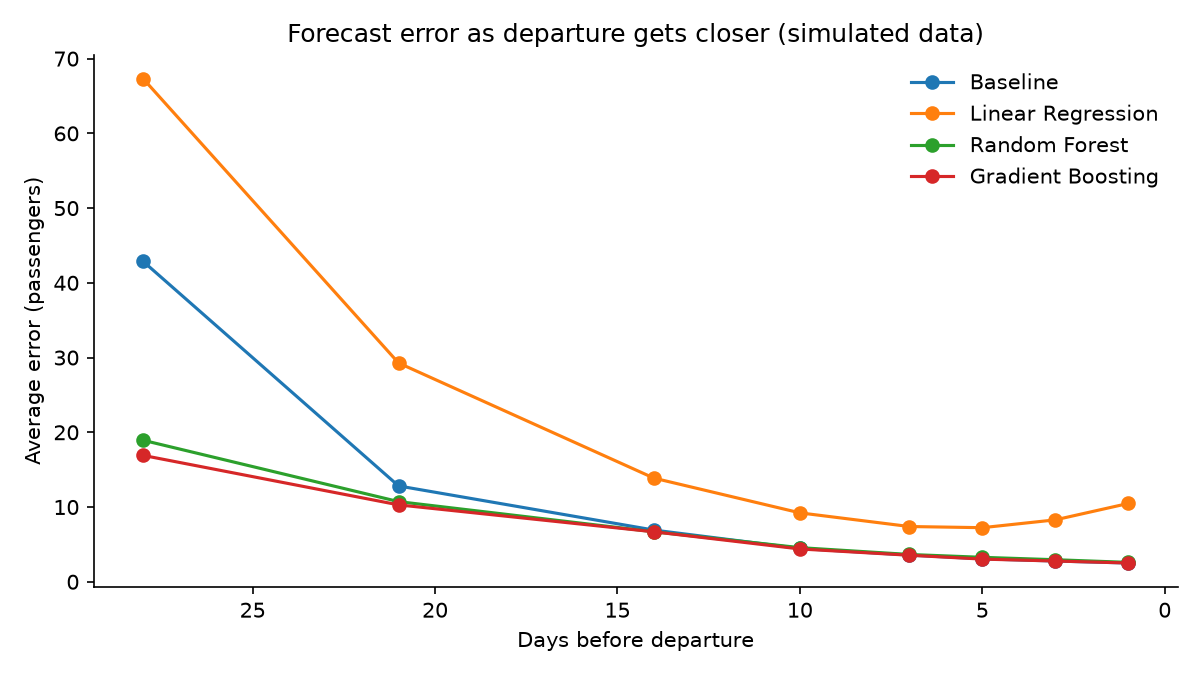
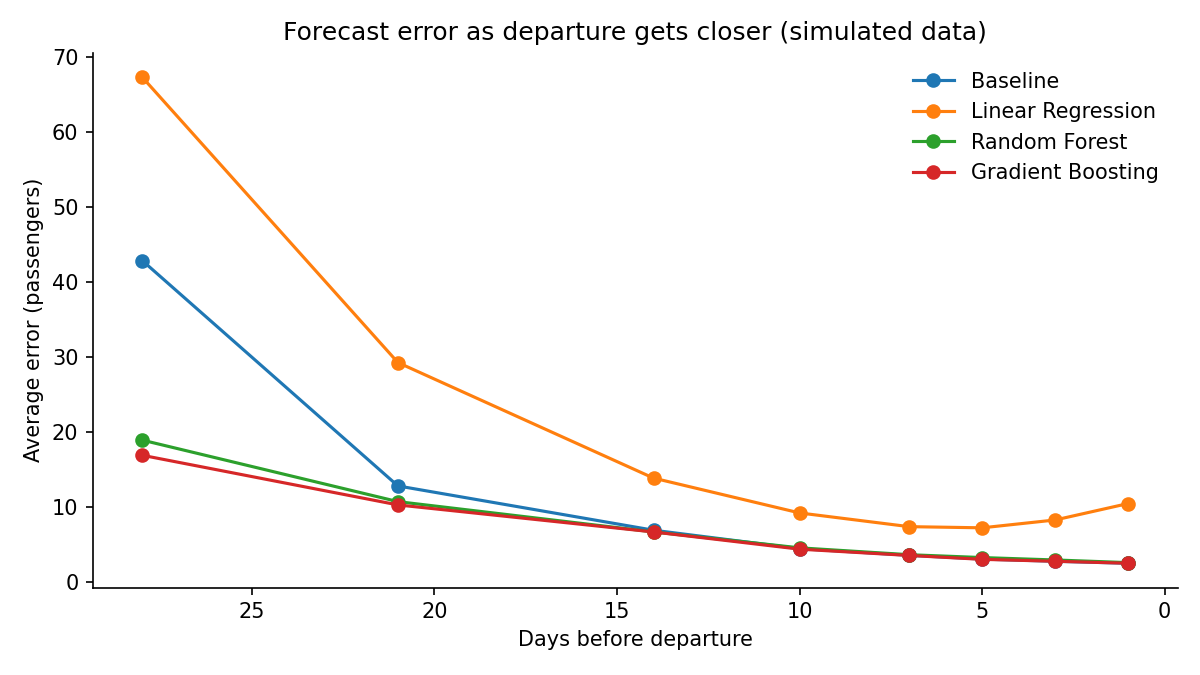
route overview

diff --git a/web/js/app.js b/web/js/app.js
@@ -70,6 +70,7 @@ function showPage(page) {
   $("page-title").textContent = PAGES[page][0];
   $("page-sub").textContent = PAGES[page][1];
   if (page === "carpool") renderCarpool();
+  if (page === "overview") renderRouteMap();
   if (view === "student") renderStudent(page);
   window.scrollTo({ top: 0 });
 
@@ -201,6 +202,103 @@ function renderOverview() {
   renderTrip(trips.find((t) => t.id === ov.tripId));
   renderCurve(ev, trips, predTotal, actualTotal);
   renderPlan(trips);
+  renderRoutes(ev);
+}
+
+// ---------- routes card ----------
+
+const ROUTE_COLORS = { A: COLORS.accent, B: COLORS.green, C: COLORS.amber };
+let routeMap;
+let routeLayer;
+
+function setRoute(code) {
+  ov.route = code;
+  ov.tripId = null;
+  $("f-route").value = code;
+  renderOverview();
+}
+
+function routePoints(code) {
+  return [data.config.UTP, ...Object.values(data.config.ROUTES[code].stops)];
+}
+
+function renderRoutes(ev) {
+  // forecast passengers per route for the chosen break, run and snapshot
+  const perRoute = {};
+  for (const t of ev.trips) {
+    if (t.run !== ov.run) continue;
+    const snap = t.snaps.find((s) => s[0] === ov.days);
+    (perRoute[t.route] ??= { pred: 0, trips: 0 });
+    perRoute[t.route].pred += snap[2];
+    perRoute[t.route].trips += 1;
+  }
+
+  const items = Object.entries(data.config.ROUTES).map(([code, r]) => {
+    const stops = Object.keys(r.stops);
+    const km = L.stopKm(code, stops.at(-1)) * data.emissions.ROAD_FACTOR;
+    const f = perRoute[code];
+    const active = ov.route === code;
+    return `<button type="button" class="route-item${active ? " active" : ""}${ov.route !== "all" && !active ? " dim" : ""}"
+        data-route="${code}" style="--rc:${ROUTE_COLORS[code]}" aria-pressed="${active}">
+      <header><i></i>Route ${code} · ${r.name}<span>${f ? `${num.format(f.pred)} passengers · ${f.trips} trips` : "no trips"}</span></header>
+      <div class="stops">UTP → ${stops.join(" → ")}</div>
+      <div class="meta">${r.states.join(", ")} · about ${num.format(km)} km by road to ${stops.at(-1)}</div>
+    </button>`;
+  });
+  const total = Object.values(perRoute).reduce((s, f) => s + f.pred, 0);
+  items.unshift(`<button type="button" class="route-item all${ov.route === "all" ? " active" : ""}" data-route="all" aria-pressed="${ov.route === "all"}">
+      <header><i></i>All routes<span>${num.format(total)} passengers</span></header>
+      <div class="meta">Show every route together</div>
+    </button>`);
+  $("route-list").innerHTML = items.join("");
+  renderRouteMap();
+}
+
+function renderRouteMap() {
+  const Lf = window.L;
+  if (!Lf || $("page-overview").hidden) return;
+  if (!routeMap) {
+    routeMap = Lf.map("route-map", { scrollWheelZoom: false, zoomSnap: 0.25 });
+    Lf.tileLayer("https://tile.openstreetmap.org/{z}/{x}/{y}.png", {
+      maxZoom: 12,
+      attribution: '&copy; <a href="https://www.openstreetmap.org/copyright">OpenStreetMap</a> contributors',
+    }).addTo(routeMap);
+    routeLayer = Lf.layerGroup().addTo(routeMap);
+  }
+  routeMap.invalidateSize();
+  routeLayer.clearLayers();
+
+  const codes = Object.keys(data.config.ROUTES);
+  // draw the chosen route last so it sits on top
+  const order = [...codes.filter((c) => c !== ov.route), ...codes.filter((c) => c === ov.route)];
+  for (const code of order) {
+    const on = ov.route === "all" || ov.route === code;
+    const color = ROUTE_COLORS[code];
+    const line = Lf.polyline(routePoints(code), {
+      color, weight: on ? 4.5 : 3, opacity: on ? 0.95 : 0.25, className: ov.route === code ? "route-line" : "",
+    }).addTo(routeLayer);
+    line.bindTooltip(`Route ${code} · ${data.config.ROUTES[code].name}`, { sticky: true });
+    line.on("click", () => setRoute(code));
+    for (const [name, point] of Object.entries(data.config.ROUTES[code].stops)) {
+      const m = Lf.circleMarker(point, { radius: on ? 6 : 4, color: "#fff", weight: 2, fillColor: color, fillOpacity: on ? 1 : 0.35 })
+        .addTo(routeLayer);
+      if (on) m.bindTooltip(name, { permanent: true, direction: "right", offset: [6, 0], className: "stop-label" });
+      m.on("click", () => setRoute(code));
+    }
+  }
+  Lf.circleMarker(data.config.UTP, { radius: 9, color: "#fff", weight: 3, fillColor: COLORS.primary, fillOpacity: 1 })
+    .bindTooltip("UTP", { permanent: true, direction: "left", offset: [-8, 0], className: "stop-label" })
+    .addTo(routeLayer);
+
+  const shown = ov.route === "all" ? codes.flatMap(routePoints) : routePoints(ov.route);
+  routeMap.fitBounds(shown, { padding: [28, 28], maxZoom: 8 });
+}
+
+function setupRoutes() {
+  $("route-list").addEventListener("click", (e) => {
+    const item = e.target.closest("[data-route]");
+    if (item) setRoute(item.dataset.route);
+  });
 }
 
 function renderBars(trips) {
@@ -780,6 +878,7 @@ async function init() {
   buildEvents();
   setupNav();
   setupOverview();
+  setupRoutes();
   setupForecast();
   setupCarpool();
   setupEmissions();

diff --git a/web/css/styles.css b/web/css/styles.css
@@ -423,6 +423,46 @@ input[type="range"] { width: 100%; accent-color: var(--primary); }
 .view-switch button.active { background: var(--primary); color: #fff; box-shadow: 0 4px 12px rgba(91, 63, 217, .3); }
 .view-switch button:focus-visible { outline: 2px solid var(--primary); outline-offset: 2px; }
 
+/* ---------- Routes card (overview) ---------- */
+.route-body { display: grid; grid-template-columns: minmax(0, 1.5fr) minmax(0, 1fr); gap: 20px; }
+#route-map { height: 330px; border-radius: 12px; overflow: hidden; background: var(--surface-2); z-index: 0; }
+#route-map .leaflet-tile-pane { filter: grayscale(.85) brightness(1.06) contrast(.92); }
+.route-list { display: flex; flex-direction: column; gap: 10px; }
+.route-item {
+  --rc: var(--primary);
+  border: 1px solid var(--border);
+  background: var(--surface);
+  border-radius: 12px;
+  padding: 11px 14px;
+  text-align: left;
+  cursor: pointer;
+  display: flex;
+  flex-direction: column;
+  gap: 3px;
+  transition: border-color .2s, box-shadow .2s, background .2s, opacity .2s;
+}
+.route-item:hover { border-color: var(--rc); }
+.route-item:focus-visible { outline: 2px solid var(--rc); outline-offset: 2px; }
+.route-item.active { border-color: var(--rc); box-shadow: 0 0 0 3px color-mix(in srgb, var(--rc) 18%, transparent); background: color-mix(in srgb, var(--rc) 6%, var(--surface)); }
+.route-item.dim { opacity: .55; }
+.route-item header { display: flex; align-items: center; gap: 8px; font-size: 13.5px; font-weight: 600; }
+.route-item header i { width: 10px; height: 10px; border-radius: 50%; background: var(--rc); flex: none; }
+.route-item header span { margin-left: auto; font-size: 12px; font-weight: 500; color: var(--text-2); font-variant-numeric: tabular-nums; }
+.route-item .stops { font-size: 12.5px; color: var(--text); }
+.route-item .meta { font-size: 11.5px; color: var(--text-3); }
+.route-item.all header i { background: conic-gradient(var(--accent) 0 33%, var(--green) 0 66%, var(--amber) 0); }
+.leaflet-tooltip.stop-label {
+  font-family: "Poppins", sans-serif;
+  font-size: 11px;
+  font-weight: 600;
+  padding: 1px 6px;
+  border: 0;
+  border-radius: 6px;
+  box-shadow: 0 1px 4px rgba(31, 34, 51, .15);
+  color: var(--text);
+}
+.leaflet-tooltip.stop-label::before { display: none; }
+
 /* ---------- Student pages (same building blocks as the operator view) ---------- */
 .filters-auto { grid-template-columns: repeat(auto-fit, minmax(180px, 1fr)); }
 .option-card { display: flex; flex-direction: column; }
@@ -582,7 +622,7 @@ body.loading .kpi-value, body.loading .big-tile strong {
 @media (max-width: 1180px) {
   .kpis { grid-template-columns: repeat(2, minmax(0, 1fr)); }
   .filters { grid-template-columns: repeat(2, minmax(0, 1fr)); }
-  .grid-2, .carpool-grid { grid-template-columns: minmax(0, 1fr); }
+  .grid-2, .carpool-grid, .route-body { grid-template-columns: minmax(0, 1fr); }
 }
 @media (max-width: 760px) {
   :root { --sidebar: 0px; }

diff --git a/web/index.html b/web/index.html
@@ -107,6 +107,17 @@
         </label>
       </div>
 
+      <div class="card route-card">
+        <div class="card-head">
+          <h2>Routes</h2>
+          <span class="muted small">Click a route to filter the dashboard</span>
+        </div>
+        <div class="route-body">
+          <div id="route-map" role="img" aria-label="Map of the bus routes from UTP and their stops"></div>
+          <div class="route-list" id="route-list"></div>
+        </div>
+      </div>
+
       <div class="kpis">
         <div class="card kpi">
           <span class="kpi-label">Forecast passengers</span>
